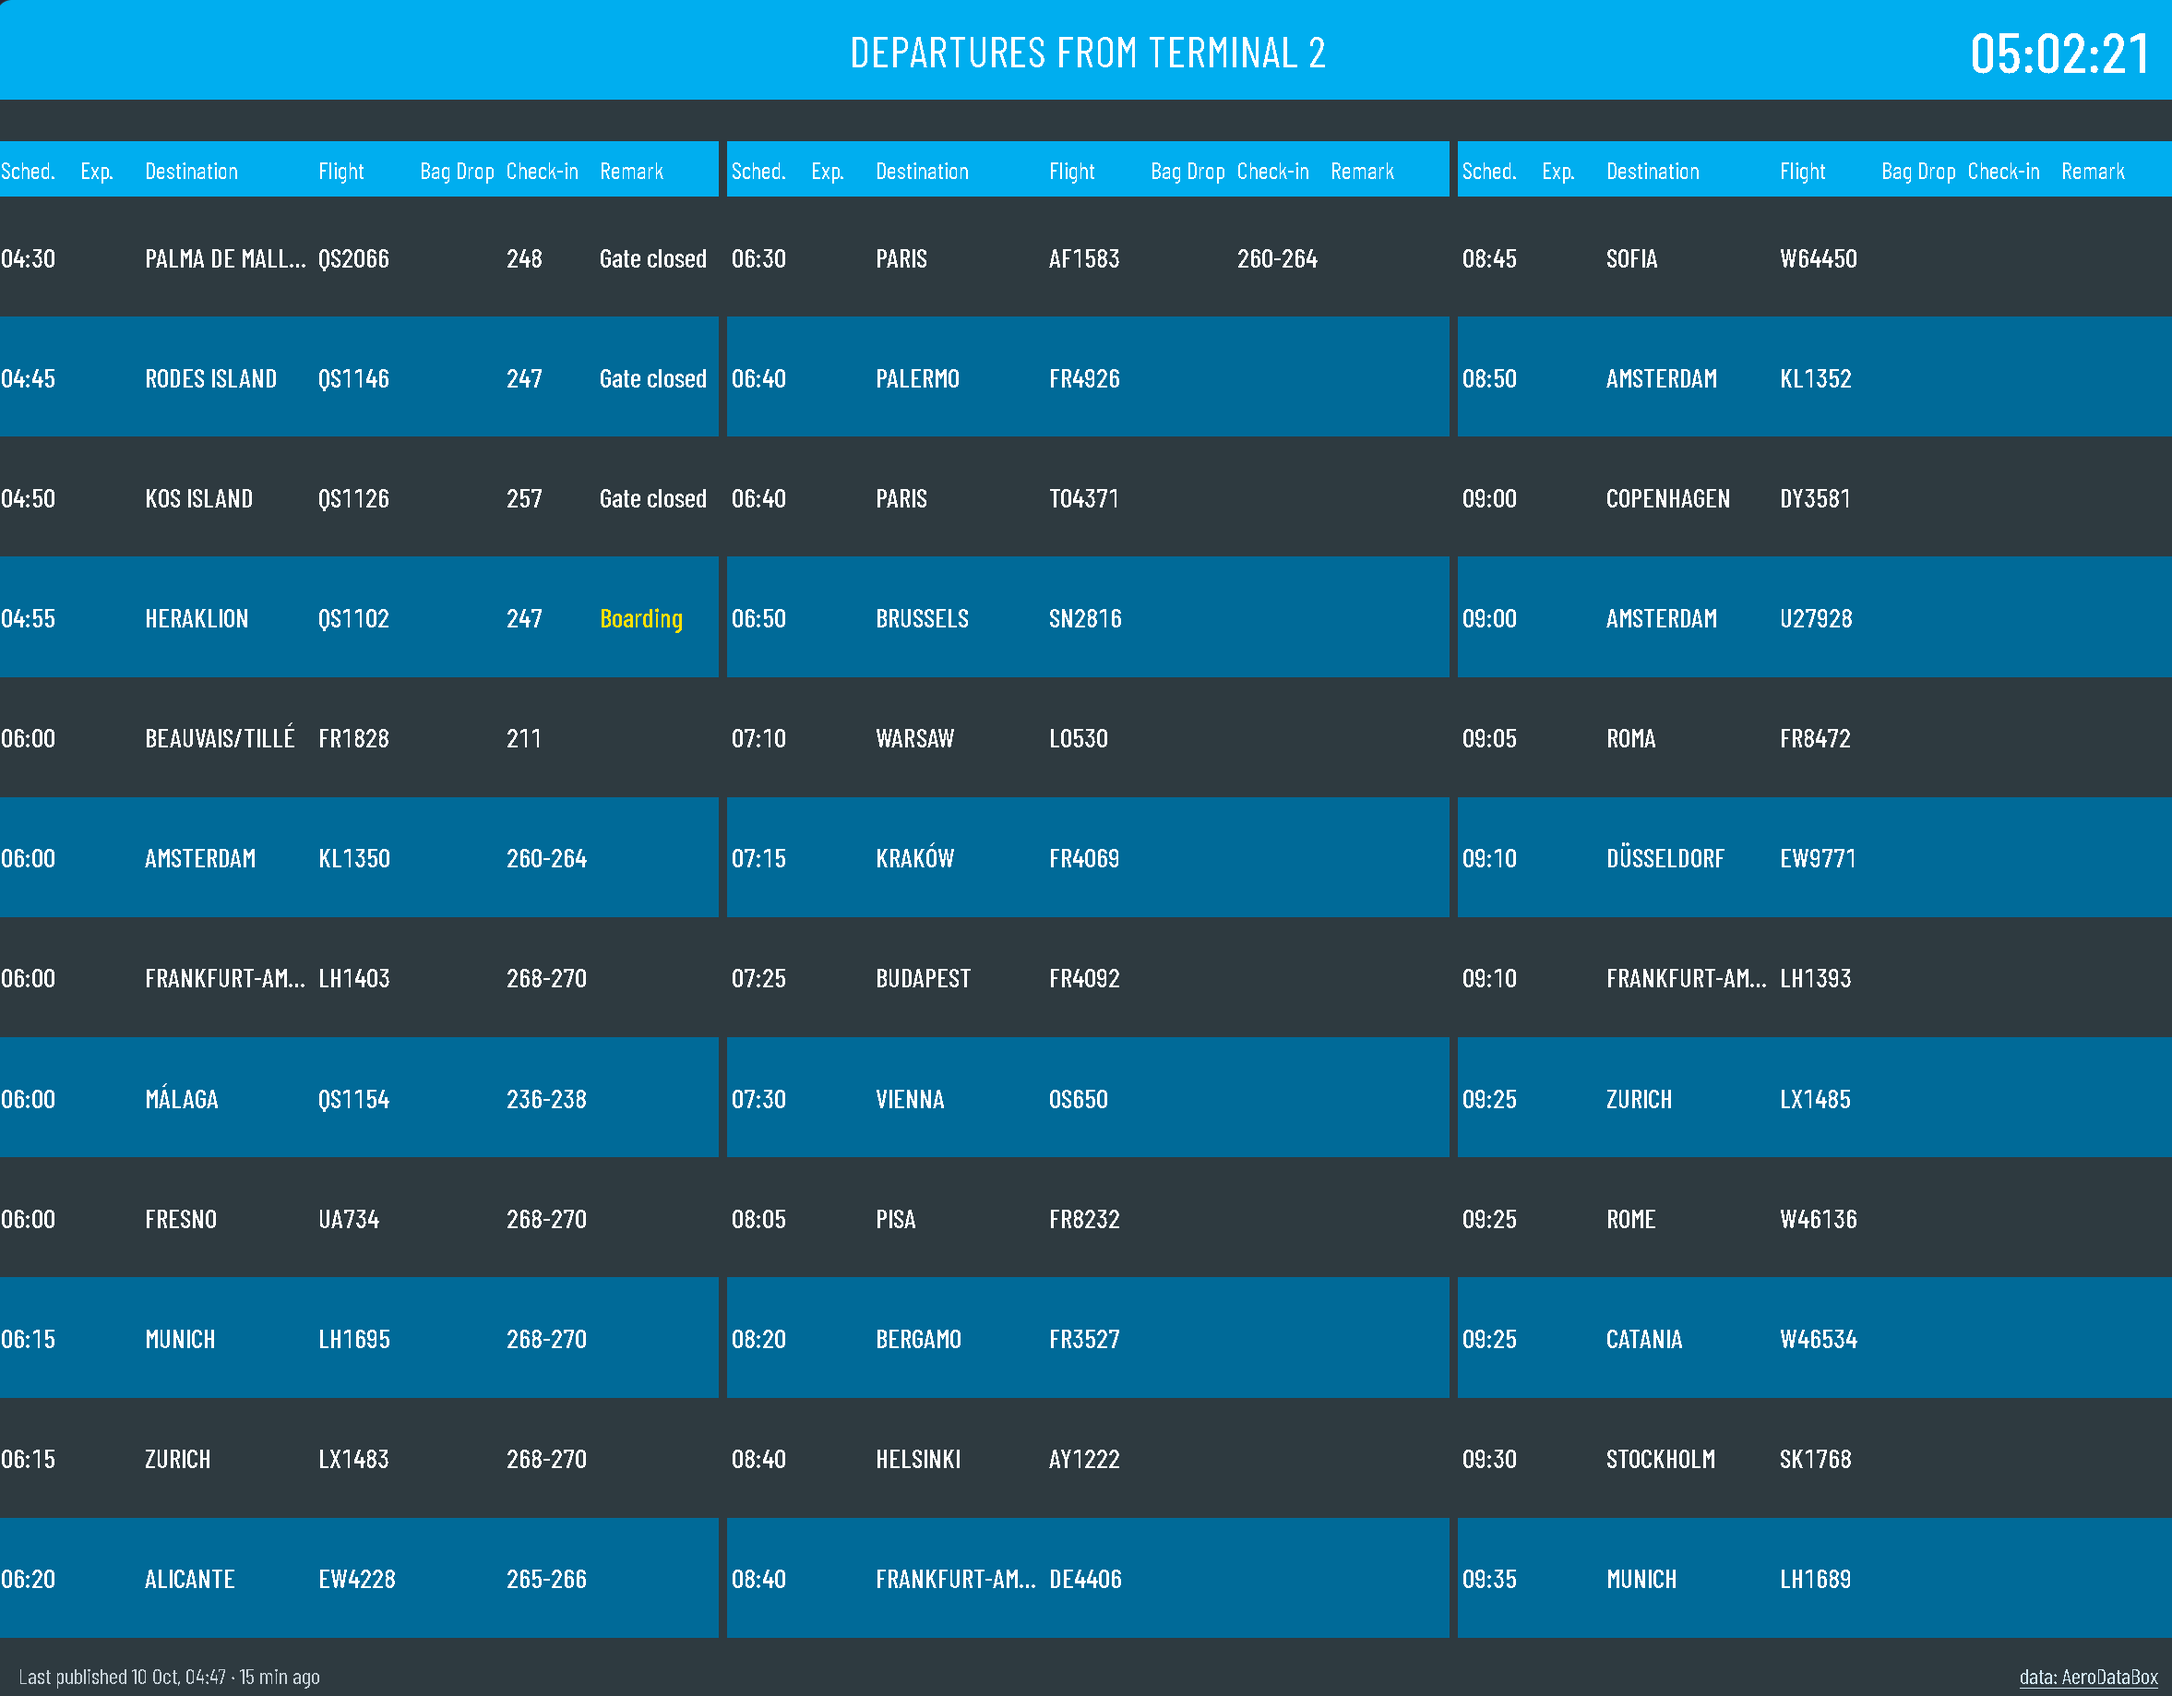
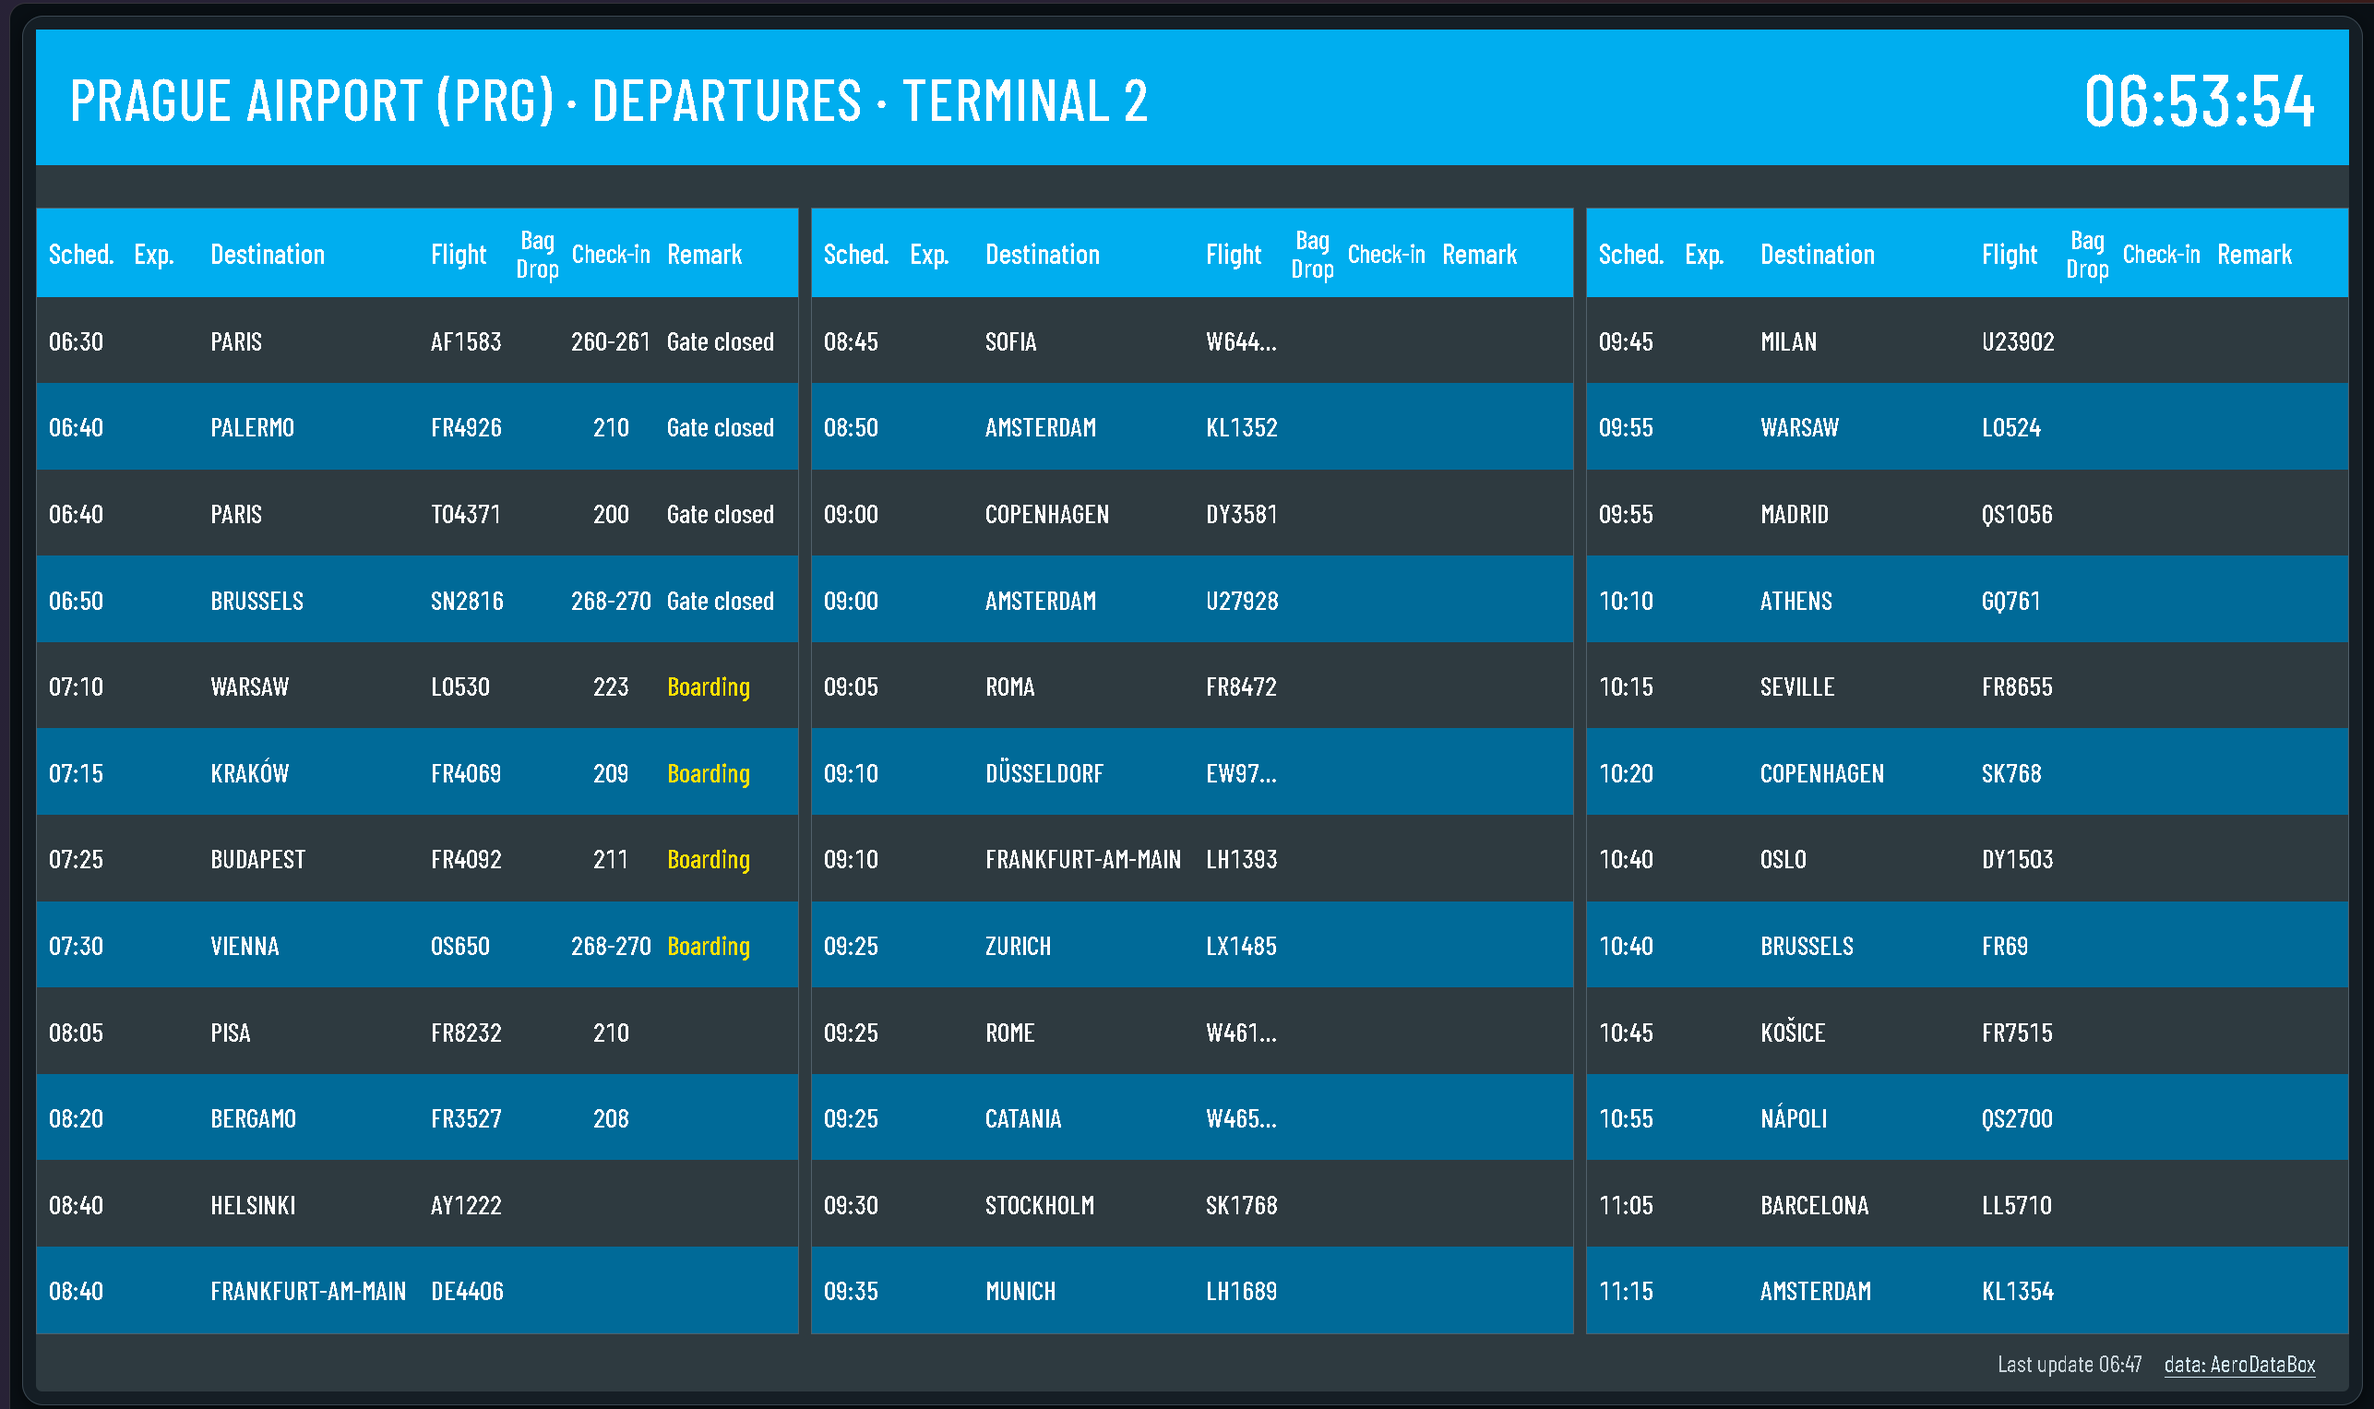
Update Flight Board departure screenshot

diff --git a/index.html b/index.html
@@ -719,8 +719,8 @@ section:has(> .section-disclosure) { padding-top: 28px; padding-bottom: 28px; }
         </div>
         <a href="https://github.com/PeterHudcovic/flight-board" class="project-link" target="_blank" rel="noopener noreferrer">View project on GitHub &rarr;</a>
         <figure class="project-screenshot">
-          <a href="flight-board-departures.png" target="_blank" rel="noopener noreferrer"><img src="flight-board-departures.png" alt="Flight Board showing Terminal 2 departures, flight numbers, check-in desks, boarding remarks and the last published data time." width="2354" height="1838" loading="lazy" decoding="async"></a>
-          <figcaption>Departure board captured 10 October 2026, including the last published timestamp and AeroDataBox attribution. Click the image for full size.</figcaption>
+          <a href="flight-board-departures.png?v=20261010-065354" target="_blank" rel="noopener noreferrer"><img src="flight-board-departures.png?v=20261010-065354" alt="Flight Board showing Terminal 2 departures, flight numbers, check-in desks, boarding remarks and the last published data time." width="2573" height="1527" loading="lazy" decoding="async"></a>
+          <figcaption>Departure board captured 10 October 2026, showing the updated Terminal 2 layout, boarding remarks, last update time and AeroDataBox attribution. Click the image for full size.</figcaption>
         </figure>
         <details class="project-subsection">
           <summary>First deployment &mdash; GitHub Actions &amp; GKE</summary>
